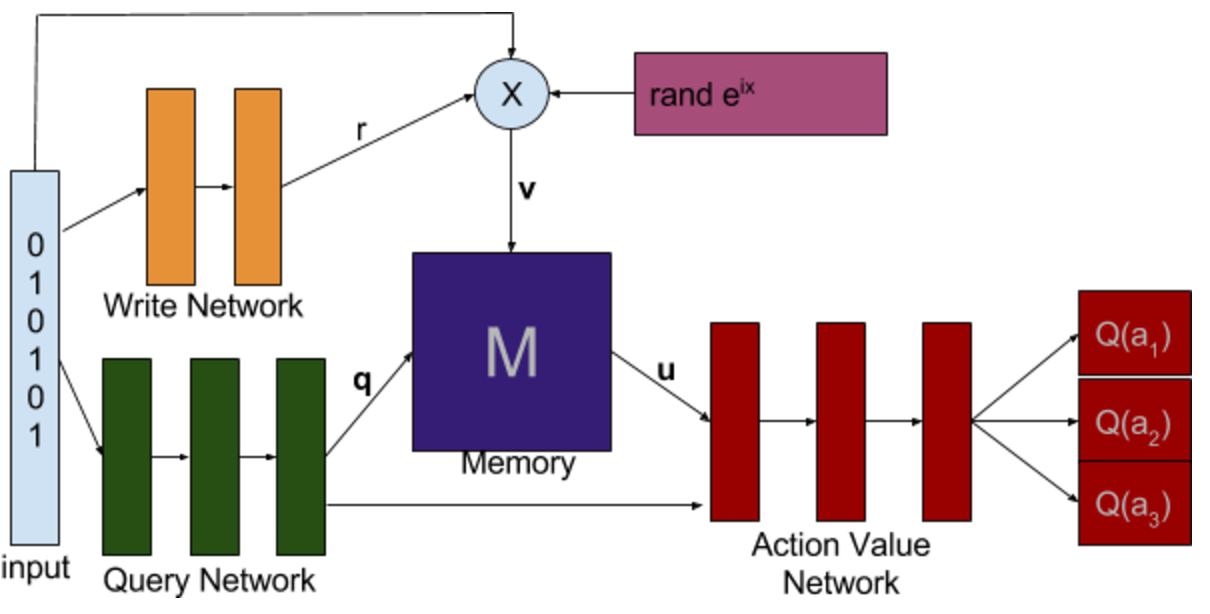
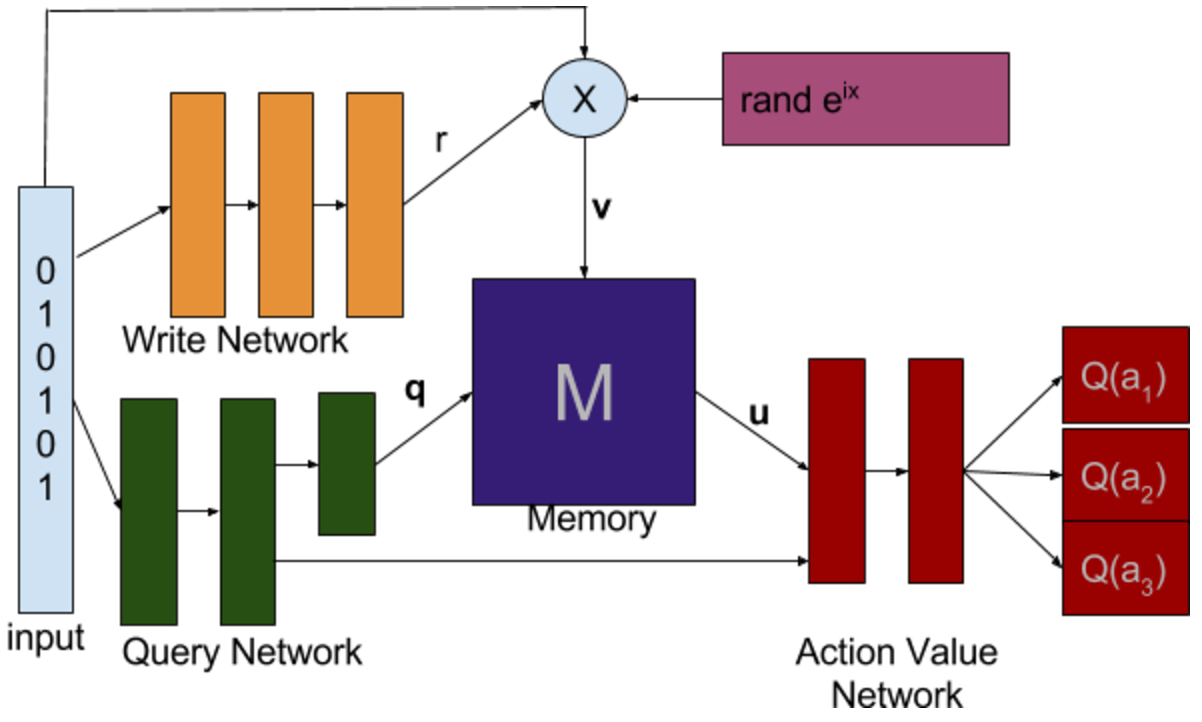
wrote architecture section and started on results

diff --git a/report.tex b/report.tex
@@ -110,6 +110,16 @@ S_{t+1} &=\alpha\left(\left(\frac{dQ(\pmb{s_t},a)}{d\pmb{u_t}}\right)^2\frac{d\s
 Where each term is approximated as discussed above, and we insert this ``effective gradient'' as the gradient for some gradient descent optimizer acting on all $\theta_{write}$ parameters of the write network at each time-step. In our experiments we use $\alpha=0.5$ in the moving average.
 
 \subsection*{Architecture}
+Our architecture for interacting with the memory an generating action values is shown in Figure \ref{fig:arch}. It consists of 4 major parts. Except where otherwise specified all activations are rectified linear.
+
+First is the query network which takes the state itself as input and consists of 2 relu layers followed by an identity layer which generates the query which is sent to the memory. Additionally the $2_{nd}$ layer of the query network is passed forward so that information about the current state is available for computing action values. 
+
+Second we have the memory itself which works as described above receiving queries $\pmb{q}$ from the query network and writes $\pmb{v_k}=re^{i\theta_k}\pmb{s}$, and sending responses $\pmb{u}$ to the action value network.
+
+Third is the action value network itself which takes the memory responses along with information about the current state from the $2_{nd}$ layer of the query network and generates estimated values for each of the 3 actions. The action values in this case are bounded between 0 and 1 (in fact the true action values are either 0 or 1), hence the output of the action value network uses a sigmoid activation. The action value network is trained using deep Q-learning and propagates gradients directly through the memory to improve the $\pmb{q}$ values produced, as well as along the path directly to the input without passing through the memory.
+
+Last we have the write network which is trained entirely separately from the others and outputs a single sigmoid activation $r$. This $r$ is multiplied by the normalized input along with a separately drawn uniformly random complex phase for each copy stored in the memory. The training process for the write network is described in detail in the memory section above.
+
 \begin{figure}[!ht]
 \includegraphics[width=1\textwidth]{images/architecture.png}
 \caption{Our architecture, input is given separately to both query and write network. Write network output is sigmoid to give a weight between 0 and 1, this weight multiplies the input vector input along with a random complex phase to give the value that is actually written to memory. The query network output \textbf{q} to memory is identity (i.e. potentially spans the whole space) the memory returns a vector \textbf{u}. The input to the action value network consists of the output of the second last layer of the query network, along with the value \textbf{u} read from memory. The action value network outputs action values for all available actions.  }
@@ -117,6 +127,11 @@ Where each term is approximated as discussed above, and we insert this ``effecti
 \end{figure}
 
 \section*{Results}
+We run experiments on the secret informant problem (see Figure \ref{fig:problem}) with 4 noisy states and run for 50,000 episodes. Each layer of our model uses 15 units. We use Nesterov Momentum as our optimizer for both the write and action evaluation portions of the network as it was found to be reasonably stable compared to some other options tried. Learning rates were tuned by hand to achieve reasonable performance, it was found that in general training the write network with around $1/10_{th}$ the learning rate of the action evaluation network worked well. We use a memory with just 3 copies in our experiments. Results for 50 repetitions of this experiment, including the output of the write network in the informant state v.s. the average over all other states, are shown in Figure \ref{fig:1_query_mem_ret}.
+
+In addition to this main model we test two baselines. First to test the efficacy of the write network we run the model with $r$ fixed to 1 and the write network disabled. Second we run a model with essentially the same architecture as our action evaluation network but with the memory replaced by a GRU with 5 recurrent units trained using standard backpropogation through time. This last model is meant to give an idea of how difficult the task is for a traditional recurrent architecture but as it hasn't been all that thoroughly tuned it is not a very rigorous baseline. It should also be noted that our goal in this work was to avoid the need to perform backpropogation through time explicitly so any comparison there is not really fair.
+
+We also experimented with variants of our architecture which allowed for multiple queries on each time step which appeared in initial tests to speed up early learning somewhat, however it has so far been prone to instability so results are not included here. This would be more useful in cases where it is actually necessary to query the values of two distinct past states to make a decision in the current state.
 \begin{figure}[!ht]
 \centering
 \begin{subfigure}[t]{.45\textwidth}
